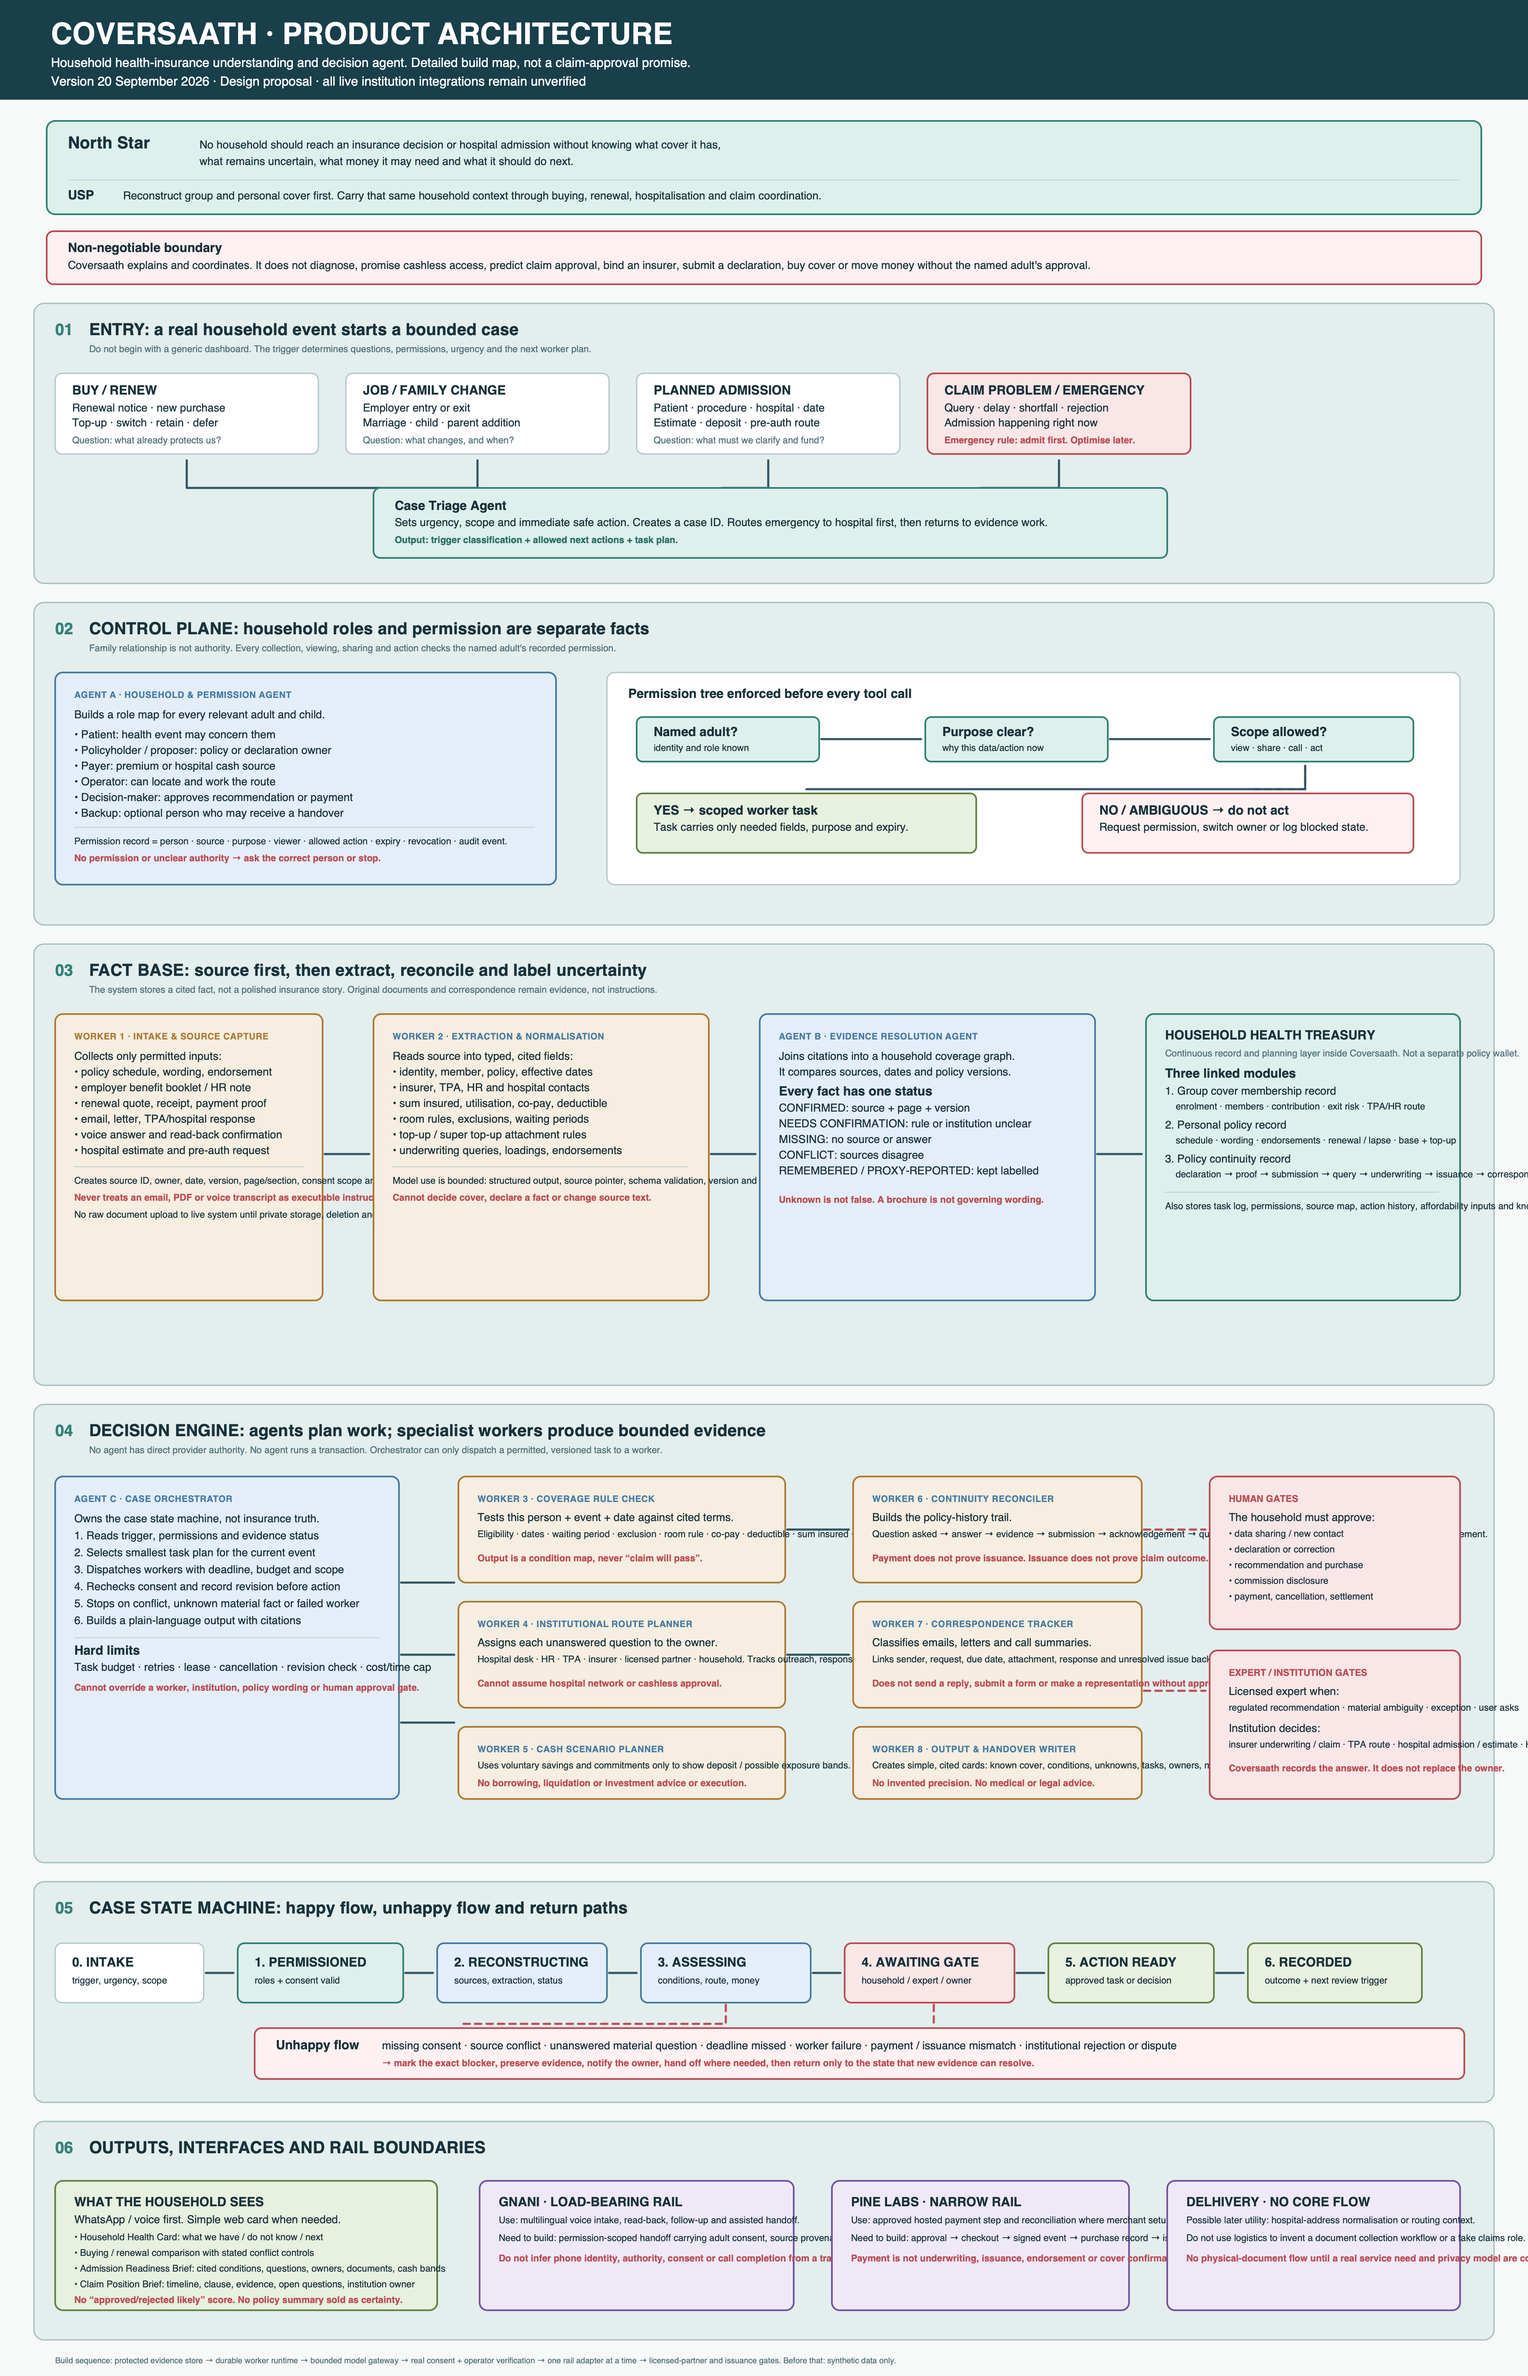
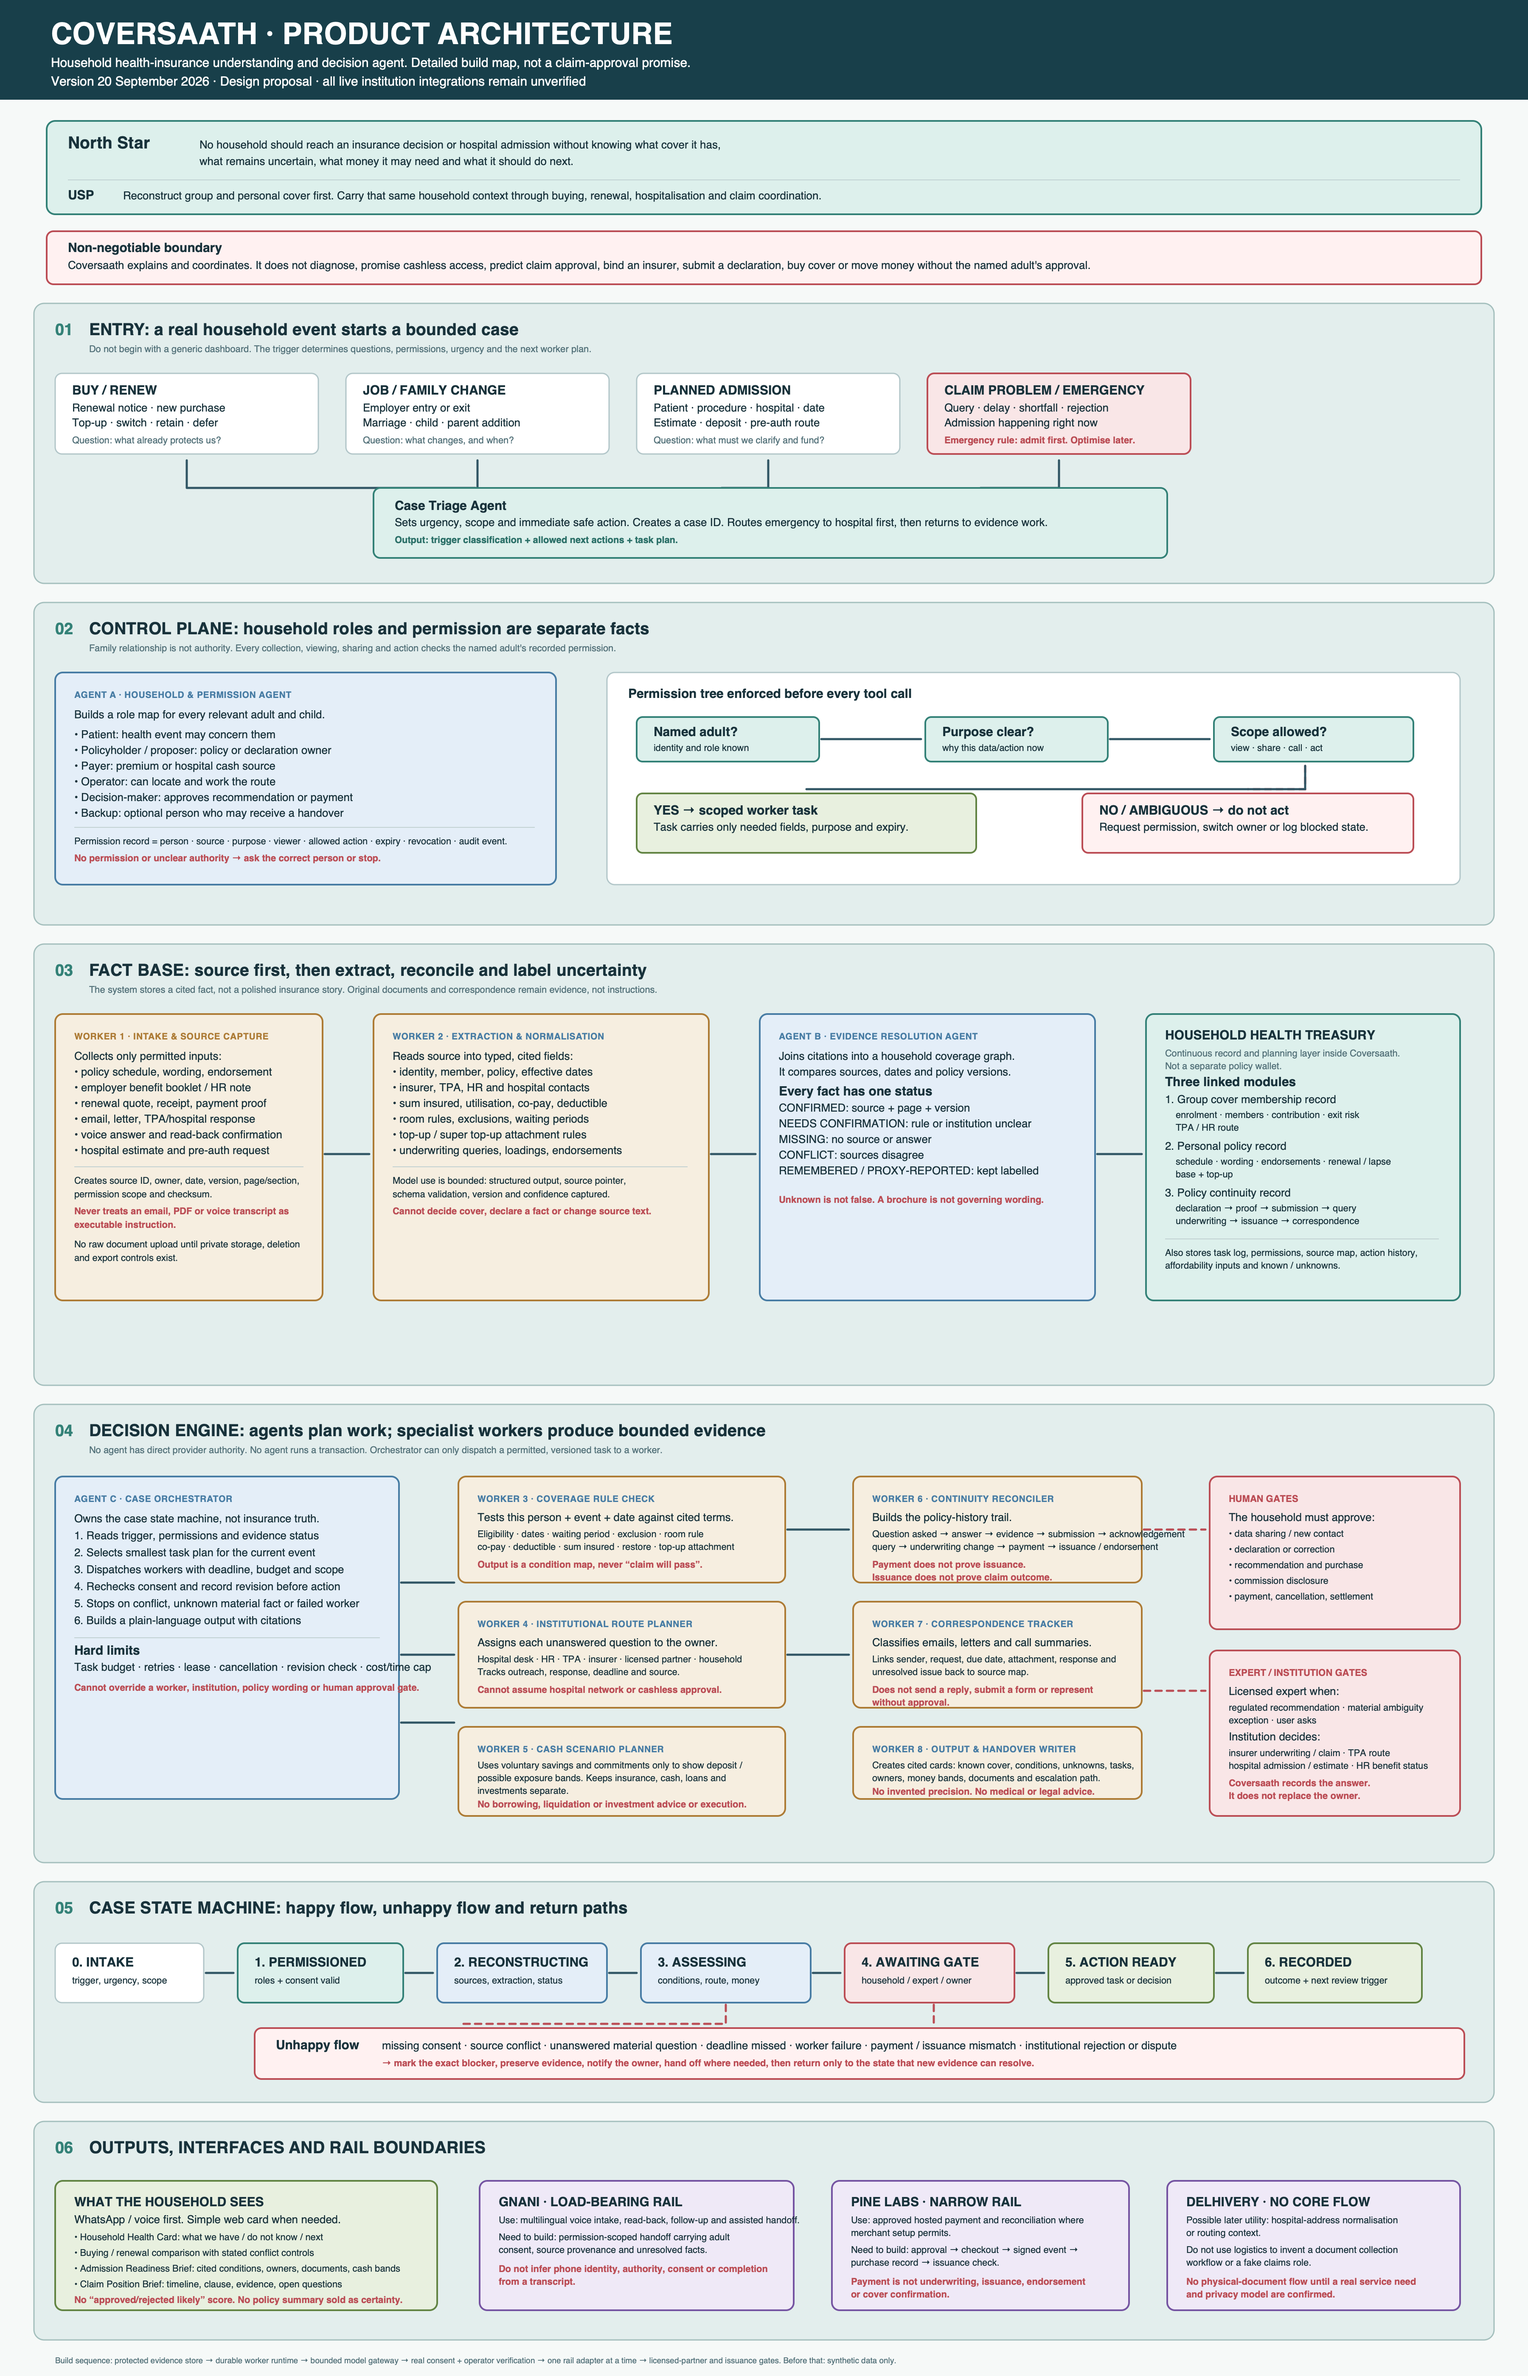
Replace working board with product architecture PNG

diff --git a/research/03-architecture.md b/research/03-architecture.md
@@ -792,7 +792,7 @@ This is the current product hierarchy. It deliberately makes Coversaath the agen
 dashboard, a backup-person drill or a claims product. Those are useful capabilities that make the agent
 more reliable at the moment a household has to decide or act.
 
-The matching visual board is [coversaath-exhaustive-working-board.svg](../docs/assets/coversaath-exhaustive-working-board.svg).
+The matching visual architecture is [coversaath-product-architecture.png](../docs/assets/coversaath-product-architecture.png). It maps the case triggers, permission tree, evidence model, specialist workers, agent limits, human gates, state machine, outputs and rail boundaries.
 
 **North Star:** no household should reach an insurance decision or hospital admission without knowing what
 cover it has, what remains uncertain, what money it may need and what it should do next.
